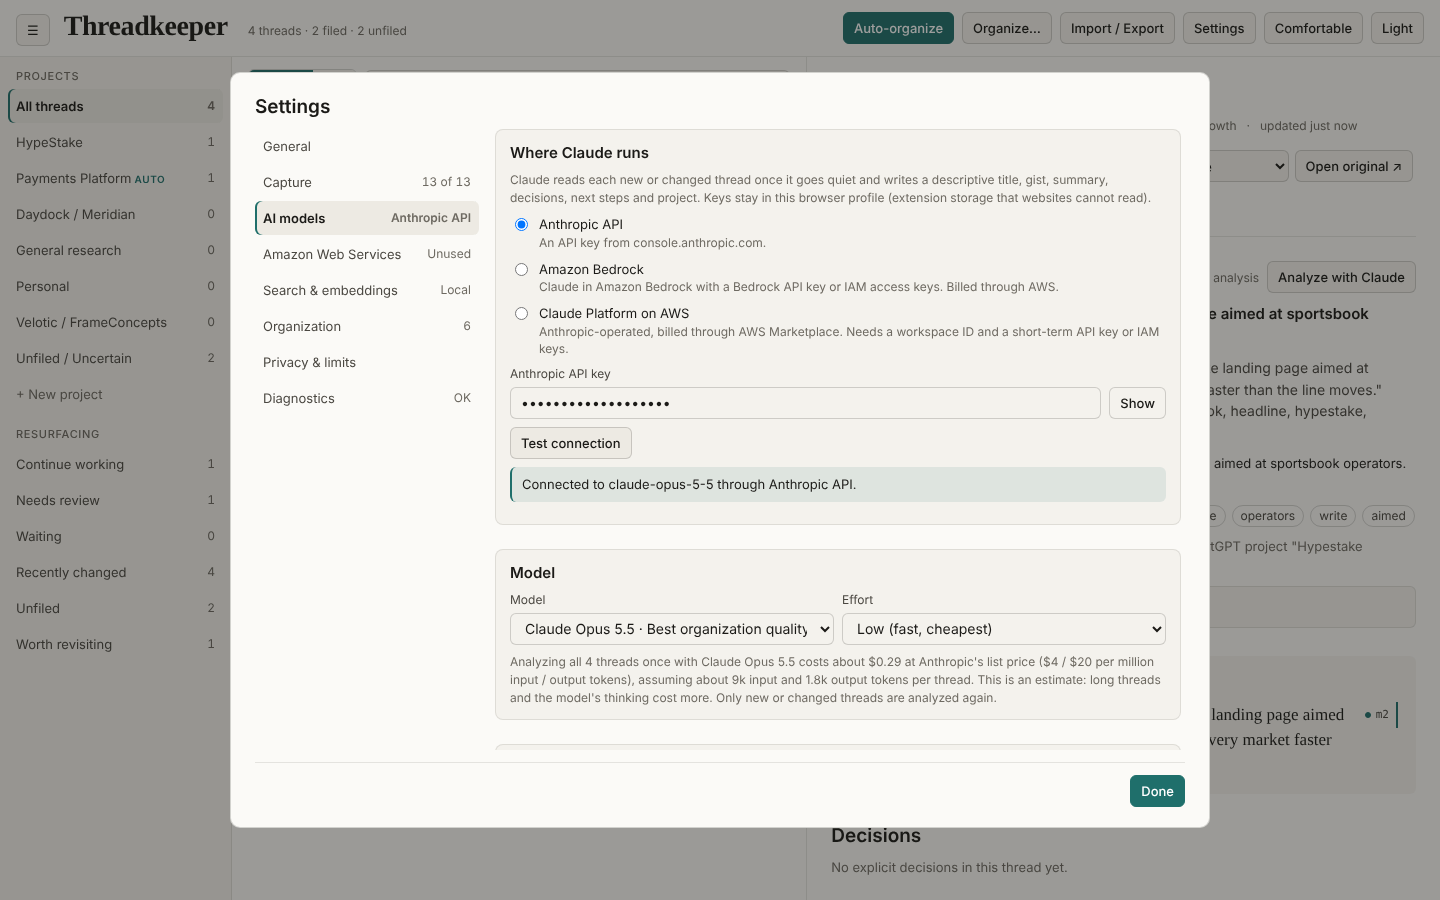
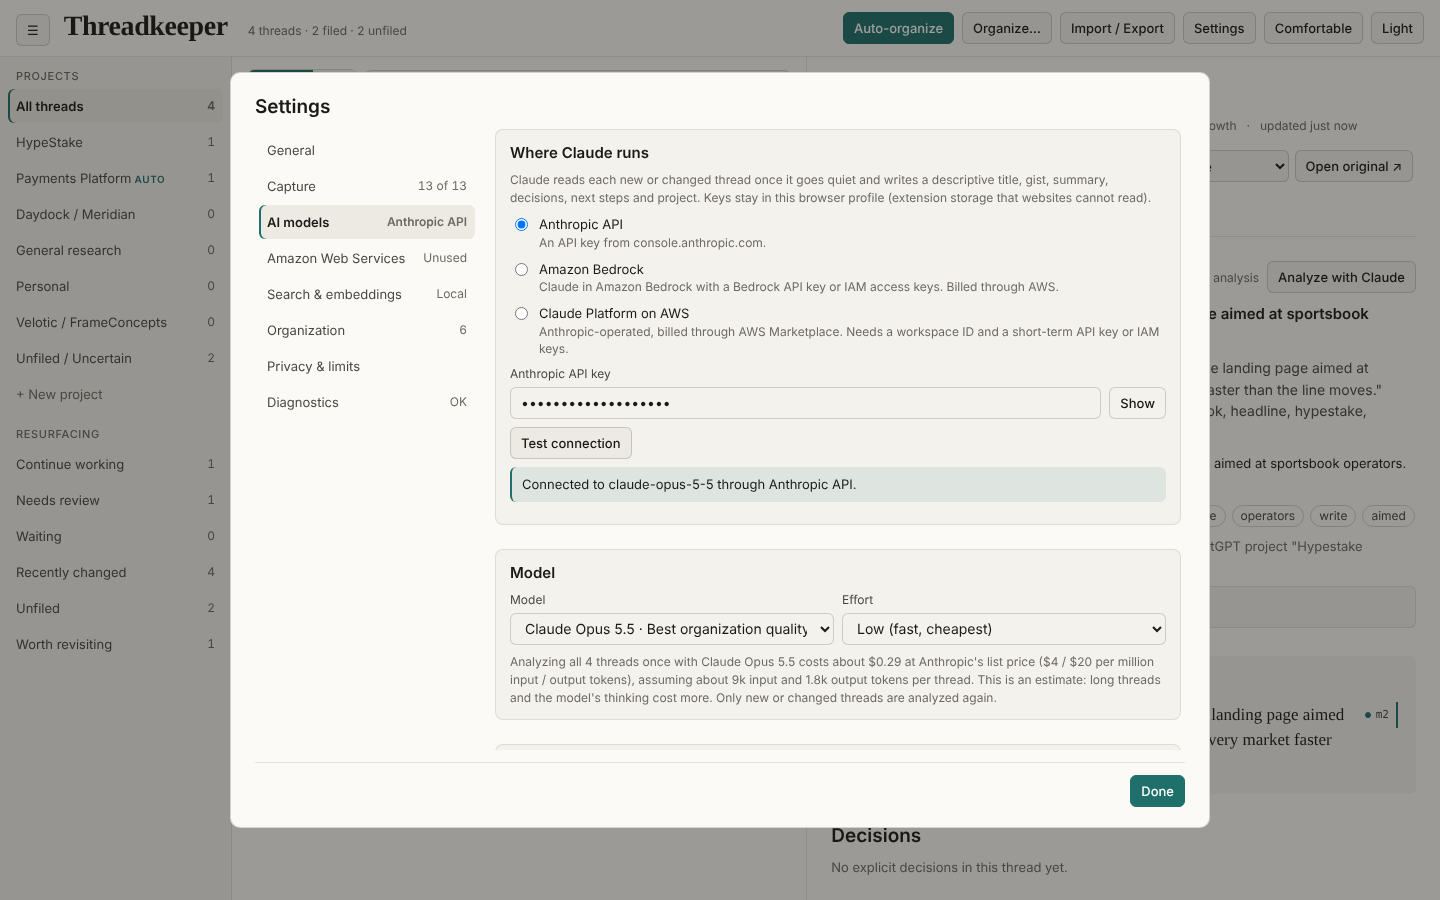
Self-heal a rebuild without Reload; fix Settings issues from the UI check
- The service worker keeps its cached script after a rebuild, so checking
  its own compiled build could never see the rebuild-without-Reload case
  (confirmed in Chrome for Testing 153). It now compares the running
  manifest with a no-store fetch of build-info.json from disk each time it
  starts and reloads once per build. New Edge scenario C stops the worker,
  rebuilds on disk and checks that the extension reloads itself; unit
  tests cover the disk read. Docs now describe this accurately.
- Edge smoke profiles enable developer mode, so a self-reload cannot
  disable the unpacked extension on stricter Chromium builds.
- Settings, from the calibrated UI-consistency check: Candidates to rerank
  can be typed again (clamped on blur); the Diagnostics problem state uses
  theme colours and the family's failure style; the shared .tk-linklike
  replaces a near-copy; the section list leaves room for focus rings; the
  narrow layout gets its full height; a danger status stays visible at
  narrow widths.
- README: the .output folder is hidden on macOS (Cmd+Shift+.), remove
  older copies before loading, and check the version against the build.

Claude-Session: https://claude.ai/code/session_01AiXsP91RrSsSetore6RNT6

Changed region(s): [[0.1875, 0.28, 0.3125, 0.4667], [0.1562, 0.1556, 0.2188, 0.2489], [0.2812, 0.1867, 0.3438, 0.2489]]

diff --git a/tests/unit/diagnostics.test.ts b/tests/unit/diagnostics.test.ts
@@ -7,6 +7,7 @@ import {
   detectBrowser,
   extensionsPageUrl,
   formatDiagnosticsReport,
+  readDiskBuildInfo,
   reloadWouldHelp,
   type ManifestLike,
 } from '../../src/core/diagnostics.js';
@@ -136,5 +137,33 @@ describe('browser helpers', () => {
     expect(report).toContain('Running manifest:  0.1.0');
     expect(report).toContain('dynamic_url_war');
     expect(report).toContain('Overlay frame did not load');
+  });
+});
+
+describe('rebuild without Reload: the worker compares the build on disk', () => {
+  const OLD: BuildInfo = { version: '0.3.0', versionName: '0.3.0 (build A)', buildId: 'A', builtAt: '2026-11-03T01:00:00.000Z' };
+  const NEW: BuildInfo = { version: '0.3.0', versionName: '0.3.0 (build B)', buildId: 'B', builtAt: '2026-11-03T02:00:00.000Z' };
+  const fileFetch = (body: unknown, status = 200) =>
+    (async () => new Response(JSON.stringify(body), { status, headers: { 'content-type': 'application/json' } })) as unknown as typeof fetch;
+
+  it('reads a valid build-info.json and rejects anything else', async () => {
+    expect(await readDiskBuildInfo('build-info.json', fileFetch(NEW))).toEqual(NEW);
+    expect(await readDiskBuildInfo('build-info.json', fileFetch({ buildId: 'B' }))).toBeNull();
+    expect(await readDiskBuildInfo('build-info.json', fileFetch(NEW, 404))).toBeNull();
+    const failing = (async () => {
+      throw new TypeError('Failed to fetch');
+    }) as unknown as typeof fetch;
+    expect(await readDiskBuildInfo('build-info.json', failing)).toBeNull();
+  });
+
+  it('reloads when the files on disk are newer than both the running manifest and the cached worker', async () => {
+    // The cached worker still carries build A and so does the manifest; only build-info.json moved to B.
+    const runningManifest: ManifestLike = { ...GOOD, version_name: OLD.versionName };
+    expect(assessManifest(runningManifest, OLD).ok).toBe(true);
+    const disk = await readDiskBuildInfo('build-info.json', fileFetch(NEW));
+    const reload = vi.fn();
+    const outcome = await autoHealStaleManifest({ manifest: runningManifest, storage: memoryStorage(), reload, build: disk ?? OLD });
+    expect(outcome).toBe('reloading');
+    expect(reload).toHaveBeenCalledTimes(1);
   });
 });

diff --git a/src/core/diagnostics.ts b/src/core/diagnostics.ts
@@ -8,8 +8,9 @@ import { BUILD_INFO, type BuildInfo } from './build-info.js';
  * full-page library the extension opens itself. Edge reads manifest.json only
  * when an unpacked extension is (re)loaded, so rebuilding without pressing
  * Reload keeps the broken manifest live while the new JS and HTML on disk are
- * served. Pages and the service worker compare the running manifest with the
- * build they were compiled from and repair or explain the mismatch.
+ * served. Pages compare the running manifest with the build they were compiled
+ * from; the service worker, whose script is cached until reload, compares it
+ * with build-info.json read from disk. Either repairs or explains the mismatch.
  */
 
 export type ManifestIssueCode =
@@ -192,6 +193,31 @@ export async function autoHealStaleManifest(
   });
   deps.reload();
   return 'reloading';
+}
+
+/**
+ * The build whose files are on disk now. A service worker that started before
+ * a rebuild keeps running its cached script (with the old BUILD_INFO), but a
+ * no-store fetch of the packaged build-info.json returns the new file, so
+ * comparing that with the running manifest catches a rebuild without Reload.
+ */
+export async function readDiskBuildInfo(
+  url: string,
+  fetchImpl: typeof fetch = (input, init) => fetch(input, init)
+): Promise<BuildInfo | null> {
+  try {
+    const res = await fetchImpl(url, { cache: 'no-store' });
+    if (!res.ok) return null;
+    const data: unknown = await res.json();
+    if (!data || typeof data !== 'object') return null;
+    const { version, versionName, buildId, builtAt } = data as Record<string, unknown>;
+    if (typeof version !== 'string' || typeof versionName !== 'string' || typeof buildId !== 'string' || typeof builtAt !== 'string') {
+      return null;
+    }
+    return { version, versionName, buildId, builtAt };
+  } catch {
+    return null;
+  }
 }
 
 export interface DiagnosticsSnapshot {

diff --git a/src/entrypoints/manager/SettingsDialog.tsx b/src/entrypoints/manager/SettingsDialog.tsx
@@ -305,6 +305,8 @@ export function SettingsDialog({
   const [aiTest, setAiTest] = useState<TestState>(IDLE);
   const [embedTest, setEmbedTest] = useState<TestState>(IDLE);
   const [rerankTest, setRerankTest] = useState<TestState>(IDLE);
+  /** Typed value of "Candidates to rerank"; clamped when the field loses focus. */
+  const [candidatesDraft, setCandidatesDraft] = useState<string | null>(null);
   const [awsAccess, setAwsAccess] = useState<boolean | null>(null);
   const diagnostics = useDiagnostics();
 
@@ -393,7 +395,7 @@ export function SettingsDialog({
       {awsCredentialsReady(settings.aws)
         ? `Uses the AWS credentials for ${settings.aws.region} (${settings.aws.auth === 'api_key' ? 'Bedrock API key' : 'IAM access keys'}).`
         : 'Needs AWS credentials.'}{' '}
-      <button type="button" className="tk-link-btn" onClick={() => setSection('aws')}>
+      <button type="button" className="tk-linklike" onClick={() => setSection('aws')}>
         Edit in Amazon Web Services
       </button>
     </p>
@@ -962,8 +964,13 @@ export function SettingsDialog({
                     min={5}
                     max={100}
                     className="tk-input"
-                    value={settings.rerankCandidates}
-                    onChange={(e) => void onPatch({ rerankCandidates: Math.min(100, Math.max(5, Number(e.target.value) || 40)) })}
+                    value={candidatesDraft ?? String(settings.rerankCandidates)}
+                    onChange={(e) => setCandidatesDraft(e.target.value)}
+                    onBlur={() => {
+                      if (candidatesDraft === null) return;
+                      void onPatch({ rerankCandidates: Math.min(100, Math.max(5, Number(candidatesDraft) || 40)) });
+                      setCandidatesDraft(null);
+                    }}
                   />
                 </label>
               </div>

diff --git a/src/entrypoints/manager/styles.css b/src/entrypoints/manager/styles.css
@@ -226,7 +226,7 @@ body,
 .tk-select:focus-visible,
 .tk-row-btn:focus-visible,
 .tk-nav-item:focus-visible,
-.tk-link-btn:focus-visible,
+.tk-linklike:focus-visible,
 .tk-evidence-marker:focus-visible {
   outline: 2px solid var(--accent);
   outline-offset: 2px;
@@ -1567,7 +1567,9 @@ details.tk-settings-section > summary.tk-settings-h3 {
 }
 
 .tk-diag-status[data-ok="false"] {
-  background: rgba(140, 58, 46, 0.10);
+  border-left: 2px solid var(--danger);
+  background: transparent;
+  color: var(--danger);
 }
 
 .tk-diag-grid {
@@ -1655,6 +1657,8 @@ details.tk-settings-section > summary.tk-settings-h3 {
 .tk-settings-nav {
   min-width: 0;
   overflow-y: auto;
+  /* Room for the shared focus ring, which sits outside each item. */
+  padding: 4px;
 }
 
 .tk-settings-panel {
@@ -1689,16 +1693,6 @@ details.tk-settings-section > summary.tk-settings-h3 {
   border: 0;
 }
 
-.tk-link-btn {
-  padding: 0;
-  border: 0;
-  background: none;
-  color: var(--accent);
-  font: inherit;
-  text-decoration: underline;
-  cursor: pointer;
-}
-
 .tk-plain-list {
   margin: 0;
   padding-left: 18px;
@@ -1709,6 +1703,7 @@ details.tk-settings-section > summary.tk-settings-h3 {
 @media (max-width: 640px) {
   .tk-modal-settings[open] {
     height: 92vh;
+    max-height: 92vh;
   }
 
   .tk-settings-layout {
@@ -1732,7 +1727,7 @@ details.tk-settings-section > summary.tk-settings-h3 {
     box-shadow: inset 0 -2px 0 var(--accent);
   }
 
-  .tk-settings-nav .tk-nav-count {
+  .tk-settings-nav .tk-nav-count:not([data-tone="danger"]) {
     display: none;
   }
 }

diff --git a/src/entrypoints/background.ts b/src/entrypoints/background.ts
@@ -15,7 +15,8 @@ import {
   runAnalysisJobs,
 } from '../core/pipeline.js';
 import { loadOrganizeContext, type OrganizeContext } from '../core/auto-organize.js';
-import { autoHealStaleManifest } from '../core/diagnostics.js';
+import { autoHealStaleManifest, readDiskBuildInfo } from '../core/diagnostics.js';
+import { BUILD_INFO } from '../core/build-info.js';
 
 const db = new ThreadkeeperDB();
 
@@ -287,13 +288,19 @@ async function initializeBackground(): Promise<void> {
 }
 
 // A rebuilt-but-not-reloaded unpacked extension keeps the previous manifest
-// (e.g. one with use_dynamic_url, which Edge blocks). Reload once per build.
+// (e.g. one with use_dynamic_url, which Edge blocks) and this worker keeps its
+// cached script, so compare the build on disk with the running manifest and
+// reload once per build. The analysis alarms wake the worker every few minutes.
 if (typeof chrome !== 'undefined' && chrome.runtime?.getManifest && chrome.storage?.local) {
-  void autoHealStaleManifest({
-    manifest: chrome.runtime.getManifest(),
-    storage: chrome.storage.local,
-    reload: () => chrome.runtime.reload(),
-  })
+  void readDiskBuildInfo(chrome.runtime.getURL('build-info.json'))
+    .then((disk) =>
+      autoHealStaleManifest({
+        manifest: chrome.runtime.getManifest(),
+        storage: chrome.storage.local,
+        reload: () => chrome.runtime.reload(),
+        build: disk ?? BUILD_INFO,
+      })
+    )
     .then((outcome) => {
       if (outcome !== 'ok') {
         securityRejectionLog.push({

diff --git a/README.md b/README.md
@@ -105,10 +105,11 @@ npm run build
 
 The unpacked extension is written to `.output/chrome-mv3`.
 
-1. Open `chrome://extensions` (or `edge://extensions`), enable **Developer mode**, click **Load unpacked** and choose `.output/chrome-mv3`. After every later `npm run build`, click **Reload** on that page; the browser keeps the previous manifest until you do.
-2. Click the Threadkeeper toolbar icon to open the side panel, then open any conversation on a supported site — it appears in the library, already summarized and filed.
-3. Optional: **Settings → AI models** → choose the Anthropic API, Amazon Bedrock or Claude Platform on AWS, add the key → **Test connection**. Then press **Auto-organize** to analyze and file your whole library.
-4. Optional: **Import / Export** → import your ChatGPT/Claude export and your Claude Code / Codex session folders.
+1. Open `chrome://extensions` (or `edge://extensions`), enable **Developer mode**, click **Load unpacked** and choose `.output/chrome-mv3`. On macOS the `.output` folder is hidden: press **Cmd+Shift+.** in the folder picker to show it. Remove any older Threadkeeper first; a copy loaded from another folder has a different ID and keeps running.
+2. Check that the version on the extensions page matches the `Built Threadkeeper … (build …)` line that `npm run build` printed. After every later `npm run build`, click **Reload** (or let the extension reload itself within a few minutes).
+3. Click the Threadkeeper toolbar icon to open the side panel, then open any conversation on a supported site — it appears in the library, already summarized and filed.
+4. Optional: **Settings → AI models** → choose the Anthropic API, Amazon Bedrock or Claude Platform on AWS, add the key → **Test connection**. Then press **Auto-organize** to analyze and file your whole library.
+5. Optional: **Import / Export** → import your ChatGPT/Claude export and your Claude Code / Codex session folders.
 
 ### Commands
 
@@ -218,7 +219,7 @@ All gates pass in packaged-extension headless Chromium (see [`evidence/acceptanc
 
 ## Troubleshooting
 
-- **"`<extension id>` is blocked · This page has been blocked by Microsoft Edge · ERR_BLOCKED_BY_CLIENT":** Edge is still running an old manifest. Builds before 0.2.0 made the library pages reachable only through a dynamic URL (`use_dynamic_url`), and Edge blocks the static URL it hands out, including the full-page library. Edge reads `manifest.json` only when an unpacked extension is loaded or reloaded, so running `npm run build` without pressing **Reload** keeps the broken manifest live. Fix: open `edge://extensions`, click **Reload** under Threadkeeper, and check that the version shown matches the `Built Threadkeeper … (build …)` line printed by `npm run build`. From 0.3.0 the extension detects this itself: the service worker reloads once per build to pick up the new manifest, and any open library page shows a **Reload extension** banner. **Settings → Diagnostics** compares the running manifest with the files on disk and copies a report. `npm run test:edge` reproduces the block in real Edge and checks every surface.
+- **"`<extension id>` is blocked · This page has been blocked by Microsoft Edge · ERR_BLOCKED_BY_CLIENT":** Edge is still running an old manifest. Builds before 0.2.0 made the library pages reachable only through a dynamic URL (`use_dynamic_url`), and Edge blocks the static URL it hands out, including the full-page library. Edge reads `manifest.json` only when an unpacked extension is loaded or reloaded, so running `npm run build` without pressing **Reload** keeps the broken manifest live. Fix: open `edge://extensions`, click **Reload** under Threadkeeper, and check that the version shown matches the `Built Threadkeeper … (build …)` line printed by `npm run build`. From 0.3.0 the extension detects this itself. After a rebuild, the service worker (which keeps running its previous script) reads the new `build-info.json` from disk the next time it wakes, at most a few minutes later, and reloads the extension once; any library page opened before that shows a **Reload extension** banner. **Settings → Diagnostics** compares the running manifest with the files on disk and copies a report. `npm run test:edge` reproduces the block in real Edge and checks every surface.
 - **Settings → Diagnostics** shows the running and on-disk versions, recent capture and overlay events, and copies a report without keys or thread content.
 - **A site changed its markup and capture stopped:** the generic role heuristics usually keep working; otherwise use the provider's data export via **Import / Export**.
 - **Claude analysis paused:** the status chip in the header shows the last error (invalid key, rate limit, daily limit). Fix it in Settings; queued threads resume automatically.

diff --git a/docs/architecture.md b/docs/architecture.md
@@ -4,7 +4,7 @@ The implementation follows the supplied `online-thread-organizer-build-prompt.md
 
 ## v0.3 changes (2026-11-03)
 
-1. **Stale-manifest self-heal.** The 0.2 Edge fix only takes effect after the unpacked extension is reloaded, because Edge reads `manifest.json` on load. Every build now writes a build id into `version_name` and into the bundles. The service worker compares them at start and reloads once per build id (recorded first, so it cannot loop); pages show a Reload banner; Settings → Diagnostics explains the state. `npm run test:edge` covers this in real Edge.
+1. **Stale-manifest self-heal.** The 0.2 Edge fix only takes effect after the unpacked extension is reloaded, because Edge reads `manifest.json` on load. Every build now writes a build id into `version_name`, into the bundles and into `build-info.json`. The service worker keeps running its cached script after a rebuild (verified in Chrome for Testing 153 and Edge 155), so it compares the running manifest with a no-store fetch of `build-info.json` from disk each time it starts, and reloads once per build id (recorded first, so it cannot loop). The analysis alarms wake it every few minutes. Pages, which always load fresh code, show a Reload banner meanwhile; Settings → Diagnostics explains the state. `npm run test:edge` covers both the stale-manifest block and a rebuild while the extension runs, in real Edge.
 2. **Claude backends.** `src/core/ai/backends.ts` builds one official Anthropic SDK client for the Anthropic API, Claude in Amazon Bedrock (`bedrock-mantle.{region}.api.aws/anthropic`, `anthropic.`-prefixed model ids) or Claude Platform on AWS (workspace header). The AWS-flavoured SDK packages import Node built-ins and do not bundle for a browser, so Bedrock API keys use the standard client's `apiKey` and IAM keys are SigV4-signed by a custom `fetch` (`src/core/aws.ts`, aws4fetch). Bedrock gets the client-side refusal fallback, dropped automatically if Bedrock rejects its beta header.
 3. **AWS host access is optional.** `optional_host_permissions` covers `*.api.aws` and `*.amazonaws.com`; Settings requests only the endpoints of the configured region, from a click.
 4. **Embeddings and reranking.** Bedrock Titan Text v2 and Cohere Embed v4 join the hosted spaces. A second-stage reranker (Voyage `rerank-3`/`rerank-3-lite`, or Bedrock Cohere Rerank 3.5 / Amazon Rerank 1.0) re-scores fused candidates on explicit search submit and in Ask, blended with first-stage rank. Bedrock API keys are rejected by the Rerank API, so key-based Bedrock reranking calls Cohere Rerank 3.5 through InvokeModel (third-party documented, marked experimental). Local-only threads are never sent and keep their first-stage position.
